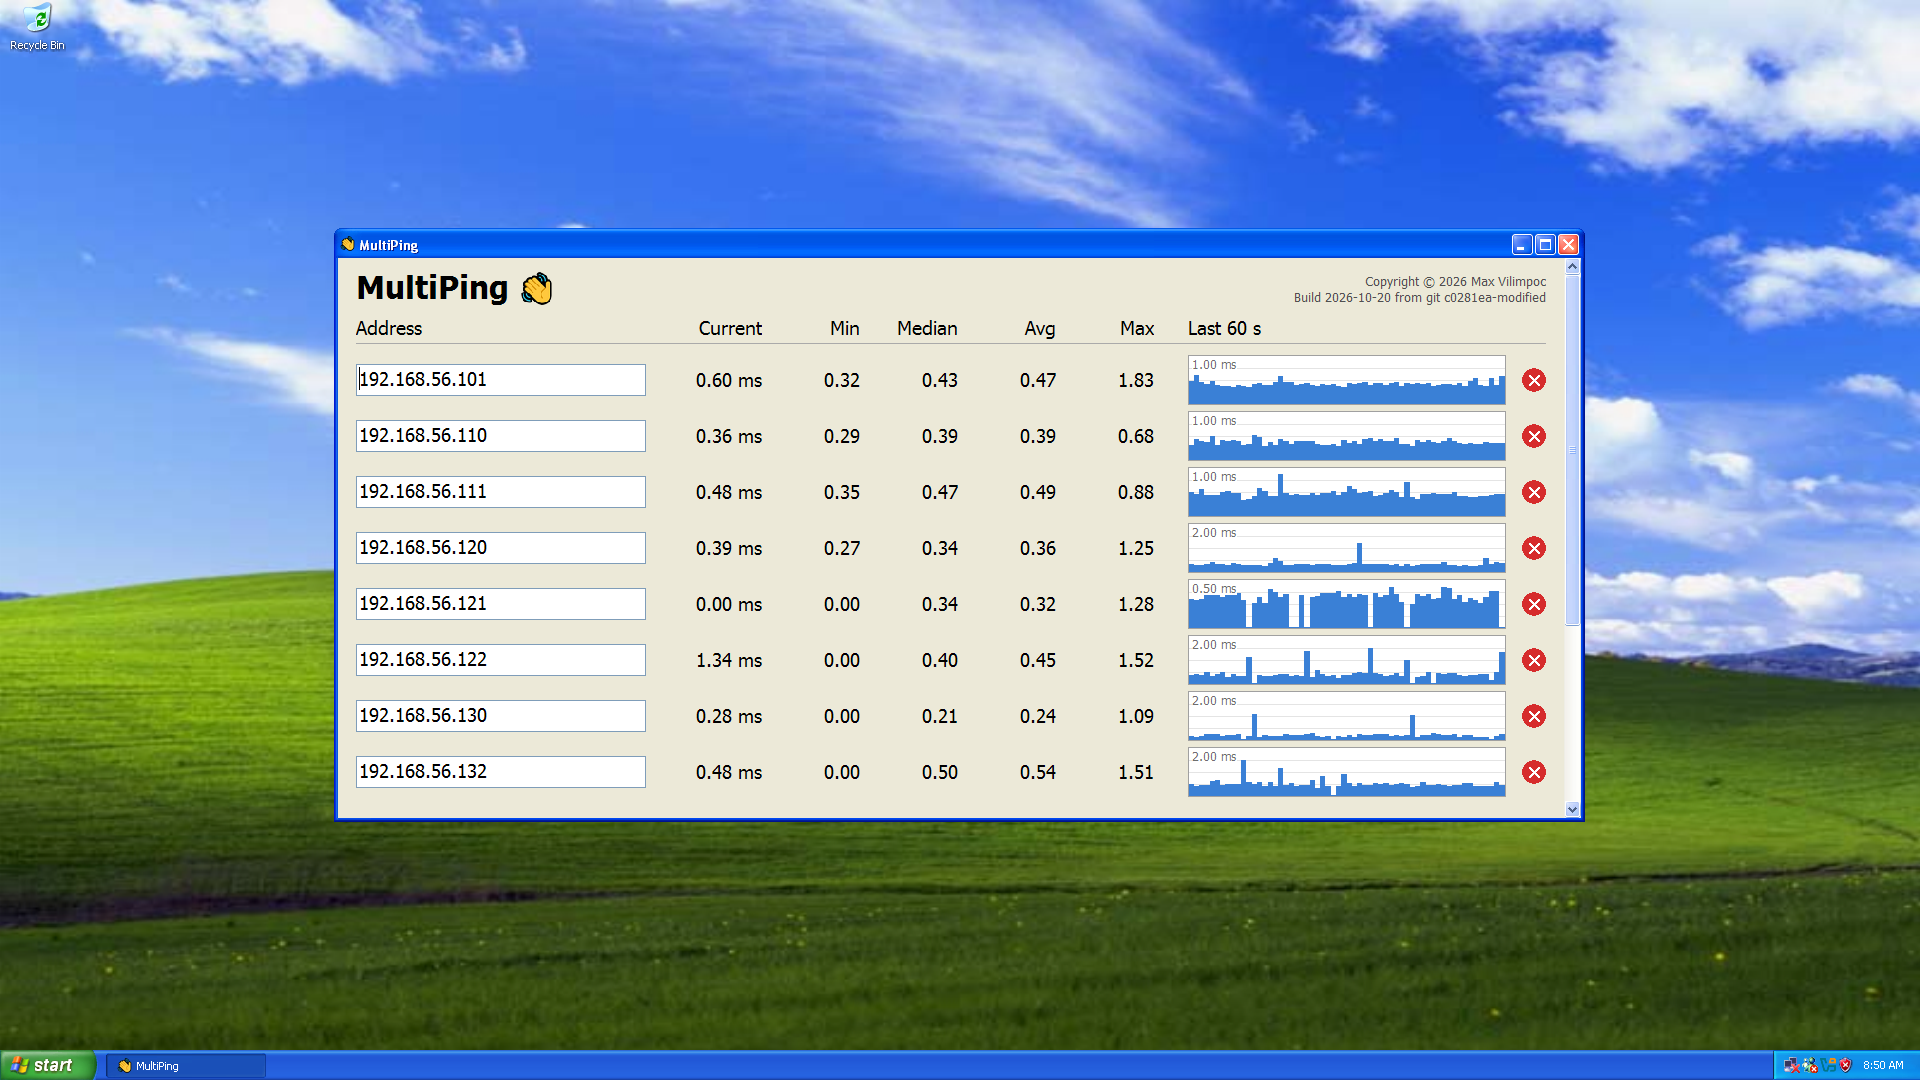
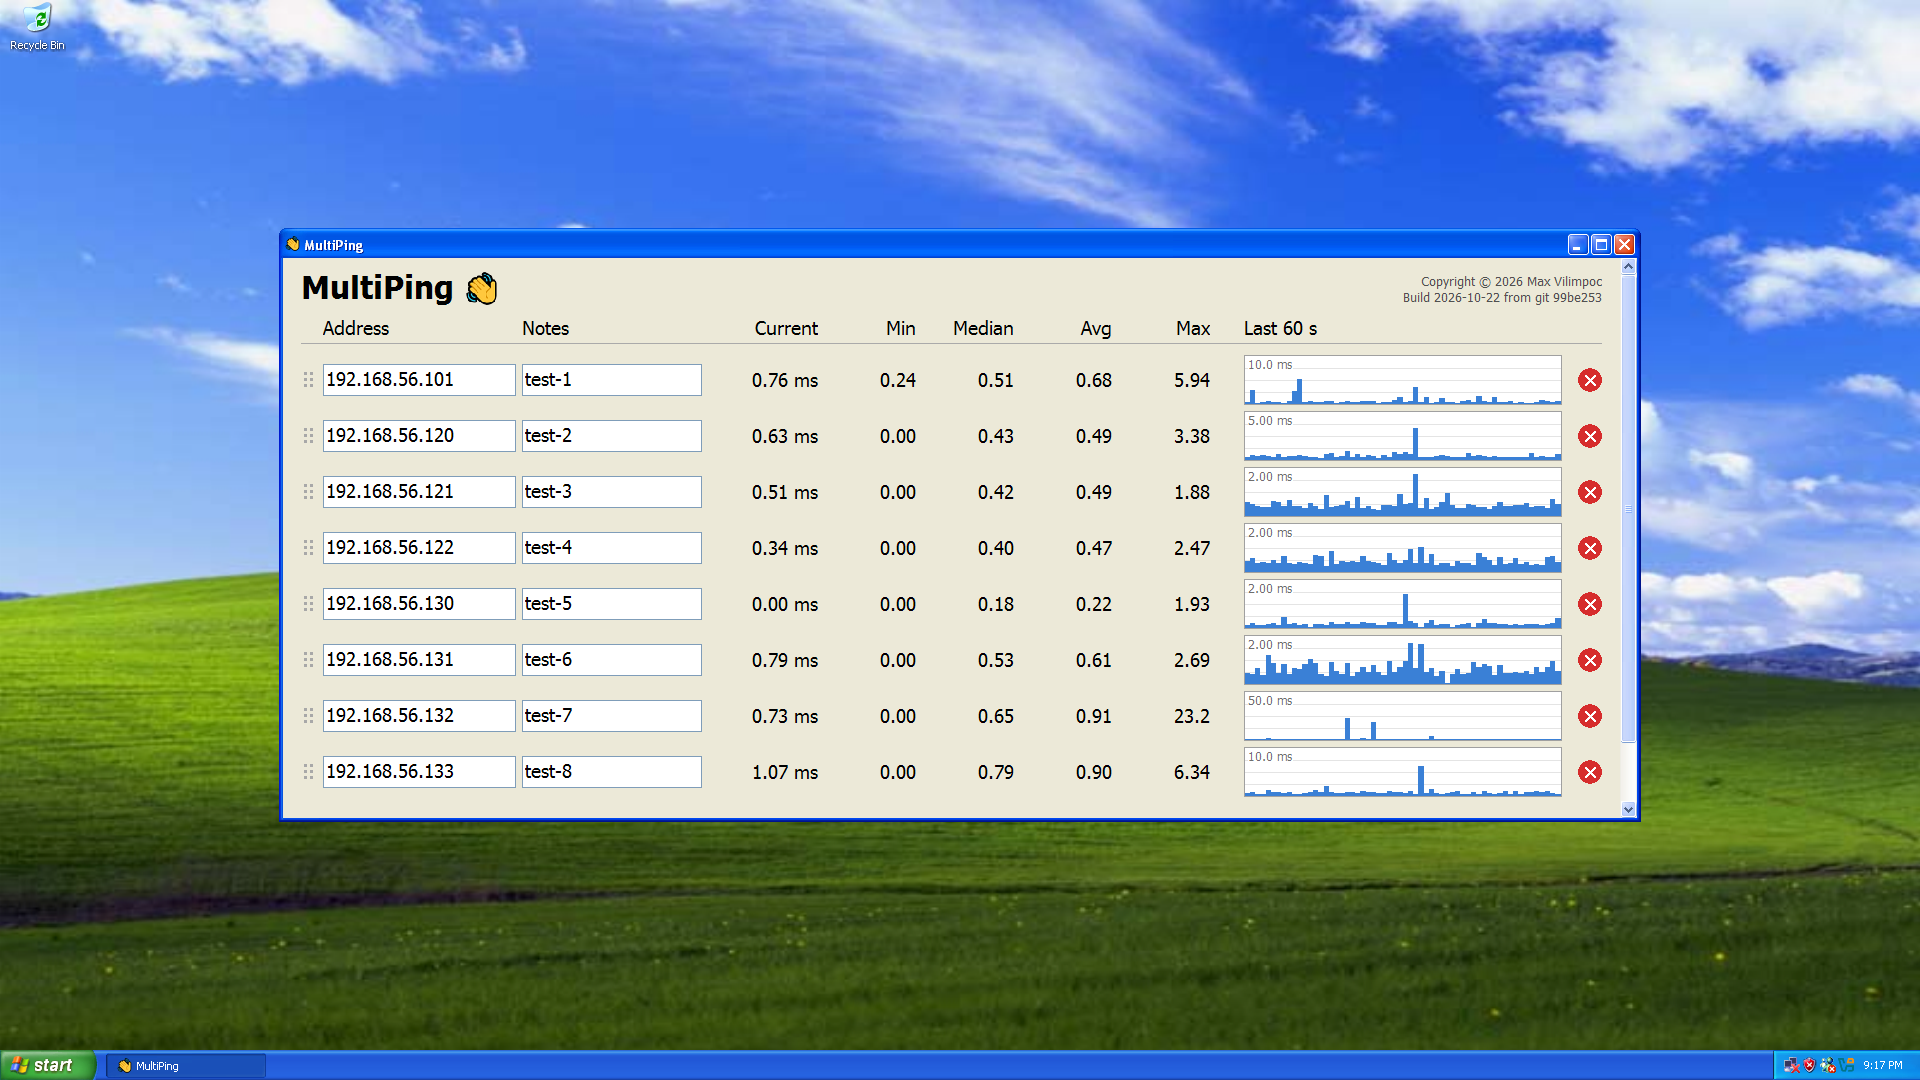
README: screenshots of the Notes column and drag handles; Windows 7 in the carousel
Every system was shot again with the new layout: the test VMs' addresses
named test-1 to test-8 in the Notes column, the windows centred, light
and dark where the system has a dark mode. Windows 7 joins the carousel,
which now has 16 frames.

diff --git a/tools/make_carousel.py b/tools/make_carousel.py
@@ -37,20 +37,21 @@ OUT = os.path.join(SHOTS_DIR, "carousel.webp")
 # Windows, then the Mac, then Linux; each system light, then dark where it has a dark mode.
 SHOTS = [
     ("01-windows-xp.png", "Windows XP \u00b7 Light"),
-    ("02-windows-10-light.png", "Windows 10 \u00b7 Light"),
-    ("03-windows-10-dark.png", "Windows 10 \u00b7 Dark"),
-    ("04-windows-11-light.png", "Windows 11 \u00b7 Light"),
-    ("05-windows-11-dark.png", "Windows 11 \u00b7 Dark"),
-    ("06-macos-light.png", "macOS 27 \u00b7 Light"),
-    ("07-macos-dark.png", "macOS 27 \u00b7 Dark"),
-    ("08-ubuntu-26.04-gtk-light.png", "Ubuntu 26.04 \u00b7 GTK 3 \u00b7 Light"),
-    ("09-ubuntu-26.04-gtk-dark.png", "Ubuntu 26.04 \u00b7 GTK 3 \u00b7 Dark"),
-    ("10-kubuntu-24.04-qt5-light.png", "Kubuntu 24.04 \u00b7 Qt 5 \u00b7 Light"),
-    ("11-kubuntu-24.04-qt5-dark.png", "Kubuntu 24.04 \u00b7 Qt 5 \u00b7 Dark"),
-    ("12-kubuntu-24.04-qt6-light.png", "Kubuntu 24.04 \u00b7 Qt 6 \u00b7 Light"),
-    ("13-kubuntu-24.04-qt6-dark.png", "Kubuntu 24.04 \u00b7 Qt 6 \u00b7 Dark"),
-    ("14-kubuntu-26.04-qt6-light.png", "Kubuntu 26.04 \u00b7 Qt 6 \u00b7 Light"),
-    ("15-kubuntu-26.04-qt6-dark.png", "Kubuntu 26.04 \u00b7 Qt 6 \u00b7 Dark"),
+    ("02-windows-7.png", "Windows 7 \u00b7 Light"),
+    ("03-windows-10-light.png", "Windows 10 \u00b7 Light"),
+    ("04-windows-10-dark.png", "Windows 10 \u00b7 Dark"),
+    ("05-windows-11-light.png", "Windows 11 \u00b7 Light"),
+    ("06-windows-11-dark.png", "Windows 11 \u00b7 Dark"),
+    ("07-macos-light.png", "macOS 27 \u00b7 Light"),
+    ("08-macos-dark.png", "macOS 27 \u00b7 Dark"),
+    ("09-ubuntu-26.04-gtk-light.png", "Ubuntu 26.04 \u00b7 GTK 3 \u00b7 Light"),
+    ("10-ubuntu-26.04-gtk-dark.png", "Ubuntu 26.04 \u00b7 GTK 3 \u00b7 Dark"),
+    ("11-kubuntu-24.04-qt5-light.png", "Kubuntu 24.04 \u00b7 Qt 5 \u00b7 Light"),
+    ("12-kubuntu-24.04-qt5-dark.png", "Kubuntu 24.04 \u00b7 Qt 5 \u00b7 Dark"),
+    ("13-kubuntu-24.04-qt6-light.png", "Kubuntu 24.04 \u00b7 Qt 6 \u00b7 Light"),
+    ("14-kubuntu-24.04-qt6-dark.png", "Kubuntu 24.04 \u00b7 Qt 6 \u00b7 Dark"),
+    ("15-kubuntu-26.04-qt6-light.png", "Kubuntu 26.04 \u00b7 Qt 6 \u00b7 Light"),
+    ("16-kubuntu-26.04-qt6-dark.png", "Kubuntu 26.04 \u00b7 Qt 6 \u00b7 Dark"),
 ]
 WIDTH, HEIGHT = 1280, 720
 HOLD_MS = 3000

diff --git a/README.md b/README.md
@@ -10,7 +10,7 @@ with the same look everywhere and no extra dependencies.
 
 <p align="center">
   <img src="screenshots/carousel.webp" width="100%"
-       alt="MultiPing on Windows XP, 10 and 11, macOS, Ubuntu with GTK 3, and Kubuntu 24.04 and 26.04 with Qt 5 and Qt 6, in light and dark mode">
+       alt="MultiPing on Windows XP, 7, 10 and 11, macOS, Ubuntu with GTK 3, and Kubuntu 24.04 and 26.04 with Qt 5 and Qt 6, in light and dark mode">
 </p>
 
 ## Which program?
